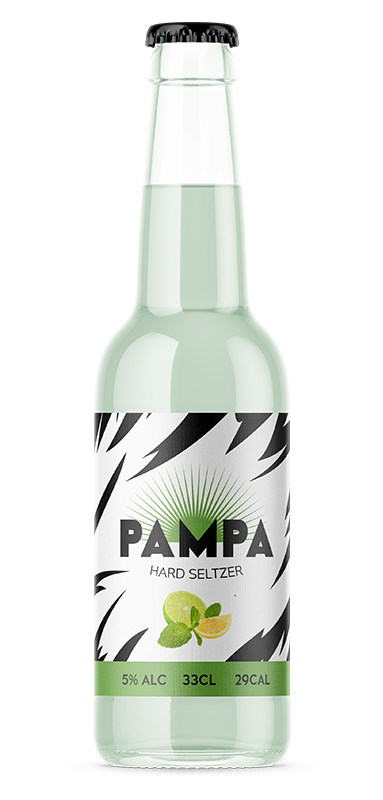
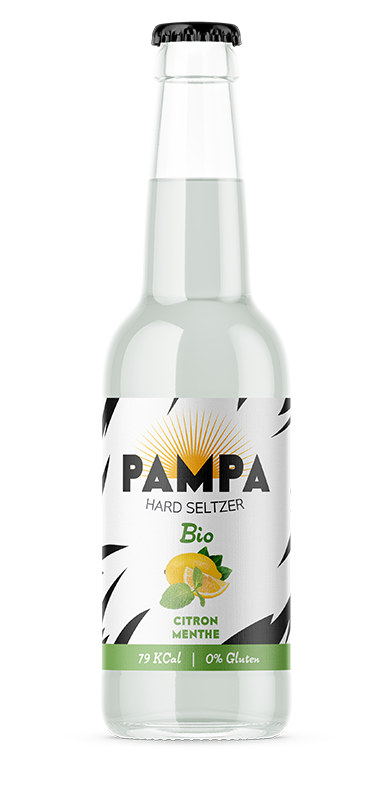
suppression google tag + update images bouteilles + img shooting

Changed region(s): [[0.2298, 0.0312, 0.7755, 0.9688]]

diff --git a/layouts/partials/head.html b/layouts/partials/head.html
@@ -10,13 +10,13 @@
     <meta name="description" content="{{ $.Param "description" }}">
     <link rel="stylesheet" href="{{ "css/styles.min.css" | relURL }}"/>
 
-<!-- Google Tag Manager -->
+<!-- Google Tag Manager --
 <script>(function(w,d,s,l,i){w[l]=w[l]||[];w[l].push({'gtm.start':
 new Date().getTime(),event:'gtm.js'});var f=d.getElementsByTagName(s)[0],
 j=d.createElement(s),dl=l!='dataLayer'?'&l='+l:'';j.async=true;j.src=
 'https://www.googletagmanager.com/gtm.js?id='+i+dl;f.parentNode.insertBefore(j,f);
 })(window,document,'script','dataLayer','{{ .Site.Params.googleTagManagerID }}');</script>
-<!-- End Google Tag Manager -->
+End Google Tag Manager -->
 
 <style>
     /* Fade In animation triggering after font load or 3s timeout */
@@ -247,7 +247,7 @@ j=d.createElement(s),dl=l!='dataLayer'?'&l='+l:'';j.async=true;j.src=
 
   </head>
   <body>
-    <!-- Google Tag Manager (noscript) -->
+    <!-- Google Tag Manager (noscript) 
 <noscript><iframe src="https://www.googletagmanager.com/ns.html?id={{ .Site.Params.googleTagManagerID }}"
 height="0" width="0" style="display:none;visibility:hidden"></iframe></noscript>
-<!-- End Google Tag Manager (noscript) -->
+End Google Tag Manager (noscript) -->

diff --git a/layouts/partials/hero.html b/layouts/partials/hero.html
@@ -3,10 +3,11 @@
 {{ if $data.homepage.hero.enable }}
 {{ with $data.homepage.hero }}
 <section class="rad-showcase rad-showcase--index rad-animation-group rad-fade-down">
-  <div class="overl ay"></div>
-  <video class="hero-video" playsinline autoplay loop muted poster="{{ .videobg.poster | absURL }}">
+  <div class="overlay"></div>
+  <!-- <video class="hero-video" playsinline autoplay loop muted poster="{{ .videobg.poster | absURL }}">
     <source src="{{ .videobg.x | absURL }}" type="video/mp4">      
-  </video>
+  </video> -->
+  <img class="hero-video" src="{{ .imgbg.x | absURL }}">
   <div class="rad-showcase__bg">
     <img
       class="lozad img-responsive"
@@ -32,11 +33,11 @@
       </div>
     </div>
   </div>
-  <div class="row desc">
+  <!-- <div class="row desc">
     {{ range .desc }}
       <div class="col-3 col-sm-3 col-md-3 col-lg-3 col-xl-3">{{ .text }}</div>
     {{ end }}
-  </div>
+  </div> -->
   <div class="rad-showcase__bg rad-showcase__bg--mobile">
     <img
       class="lozad img-responsive"

diff --git a/static/css/custom.css b/static/css/custom.css
@@ -277,10 +277,9 @@ body { font-family: sans-serif; }
 }
 
 .inside-hero {
-    /*background-image: url(../img/parfums/top-banner.jpeg);*/
     background-image: url(../video/top-banner.jpg);
     background-size: cover;
-    background-position: center bottom;
+    background-position: center;
     background-repeat: no-repeat;
     height: 28vw;
     position: relative;
@@ -320,7 +319,7 @@ body { font-family: sans-serif; }
 .product-flavor{display: block;}
 .product-flavor:hover {background: rgba(112,112,112,0.3); text-decoration: none;}
 .product-flavor:hover .product-info h4 {color: black; text-decoration: none;}
-
+.product-flavor .block .img-fluid {display: block; margin: auto; max-height: 60vh;}
 .back-button {
     padding-bottom: 30px;
 }
@@ -362,7 +361,7 @@ body { font-family: sans-serif; }
 .single-flavor-drink {
     display: inline-block;
     vertical-align: top;
-    width: 40%;
+    width: 30%;
 }
 .single-flavor-drink-description {
     vertical-align: top;

diff --git a/layouts/products/single.html b/layouts/products/single.html
@@ -20,7 +20,7 @@
       <div class="col-md-8">
         <h1>{{ .Params.Title }}</h1>
       </div>
-      <div class="col-md-8">
+      <div class="col-md-12">
         <div class="single-flavor-drink">
             <img src="{{ .Params.image | absURL }}" alt="{{ .Params.Title }}">     
         </div>
@@ -38,10 +38,10 @@
 
         </div>
       </div>
-      <div class="col-md-4 flavor-info-column">
+      <!-- <div class="col-md-4 flavor-info-column">
         {{- partial "info-table.html" . }}
       </div>
-
+ -->
     </div>
   </div>
 </section>

diff --git a/layouts/partials/footer.html b/layouts/partials/footer.html
@@ -8,9 +8,6 @@
     </div>
     <div class="footer__links">
       <ul class="navbar-nav ">
-        <li class="nav-item">
-          <a class="nav-link" href="/">HOME</a>
-        </li>
         {{ $data := index .Site.Data .Site.Language.Lang }}
         {{ with $data.homepage.menus }}
 

diff --git a/static/css/main.css b/static/css/main.css
@@ -10720,7 +10720,7 @@ body.page .navbar-brand {opacity: 0;}
     }
 }
 
-video.hero-video {
+.hero-video {
   position: absolute;
   top: 50%;
   left: 50%;
